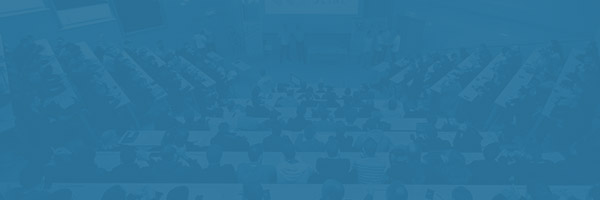
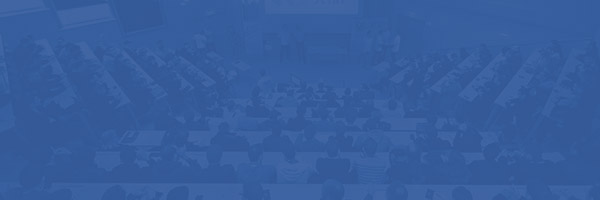
feat: Update 2017 color

diff --git a/assets/css/2017/_variables.scss b/assets/css/2017/_variables.scss
@@ -22,7 +22,7 @@ $gris-clair-2: #ddd !default;
 $gris-clair-3: #ccc !default;
 $gris-fonce: #666 !default;
 
-$color-primary: #276a91 !default;
+$color-primary: #375d9d !default;
 $color-dark: #333 !default;
 
 // Media queries
